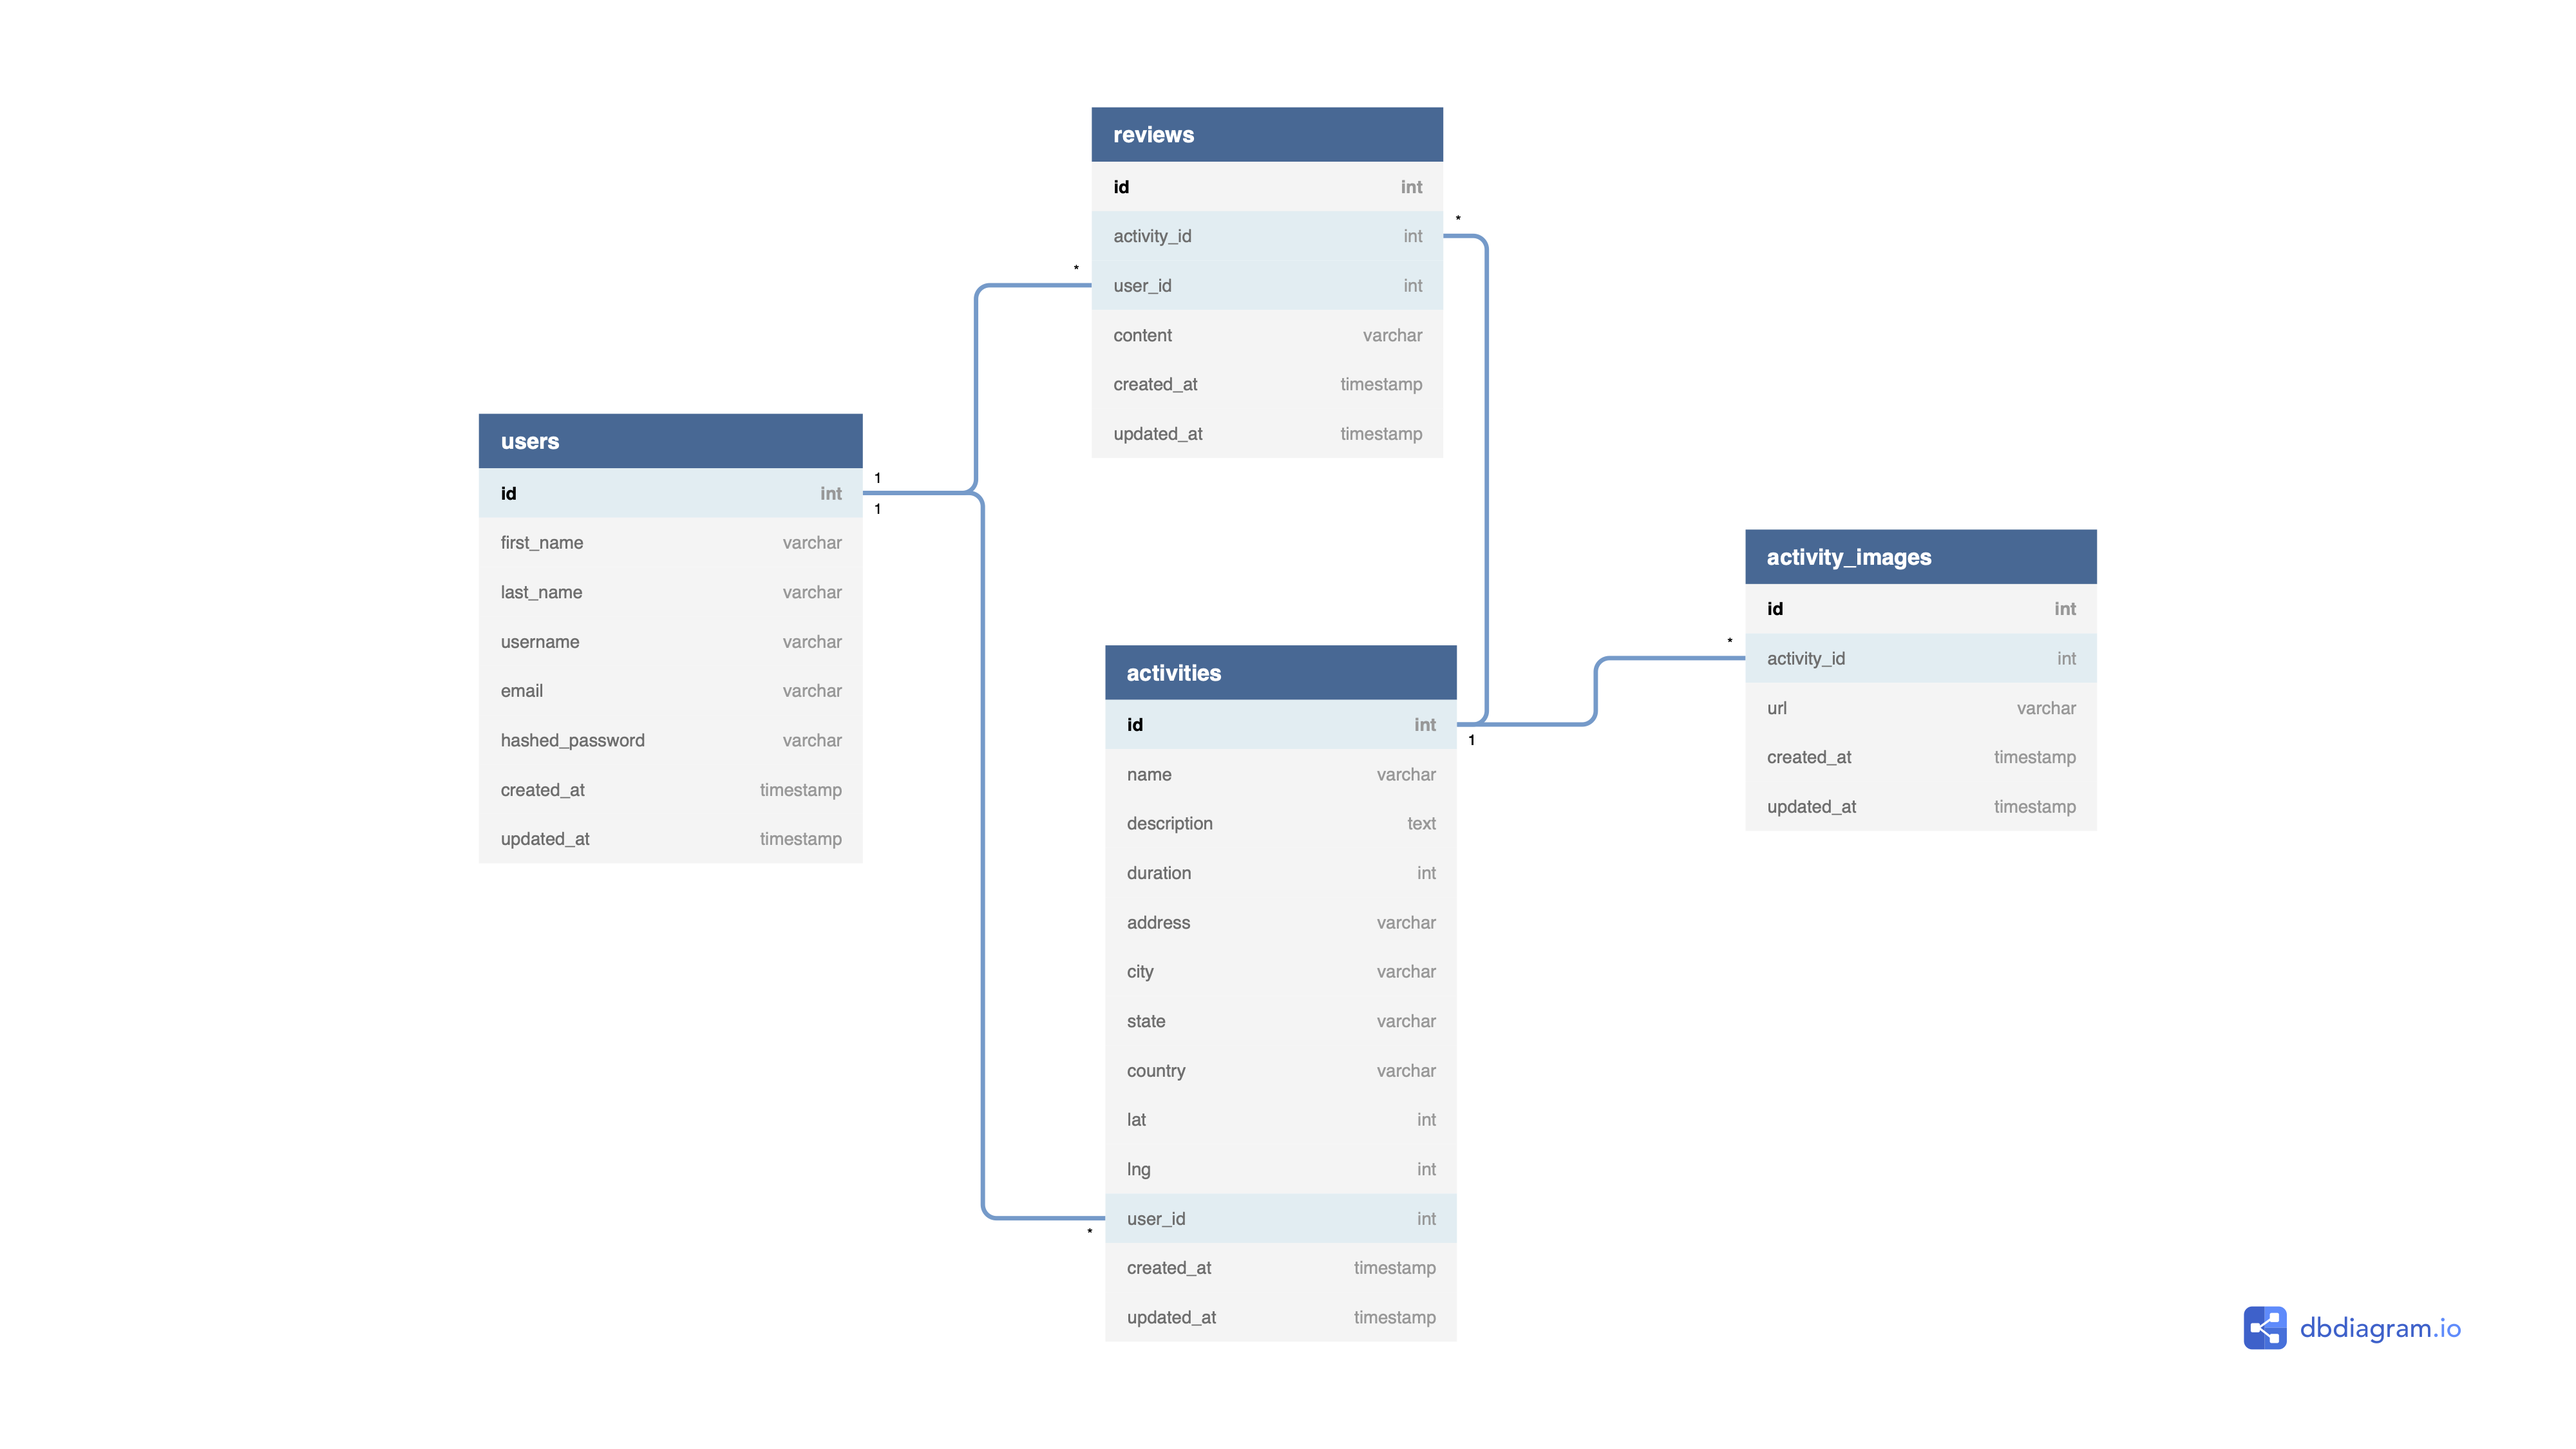
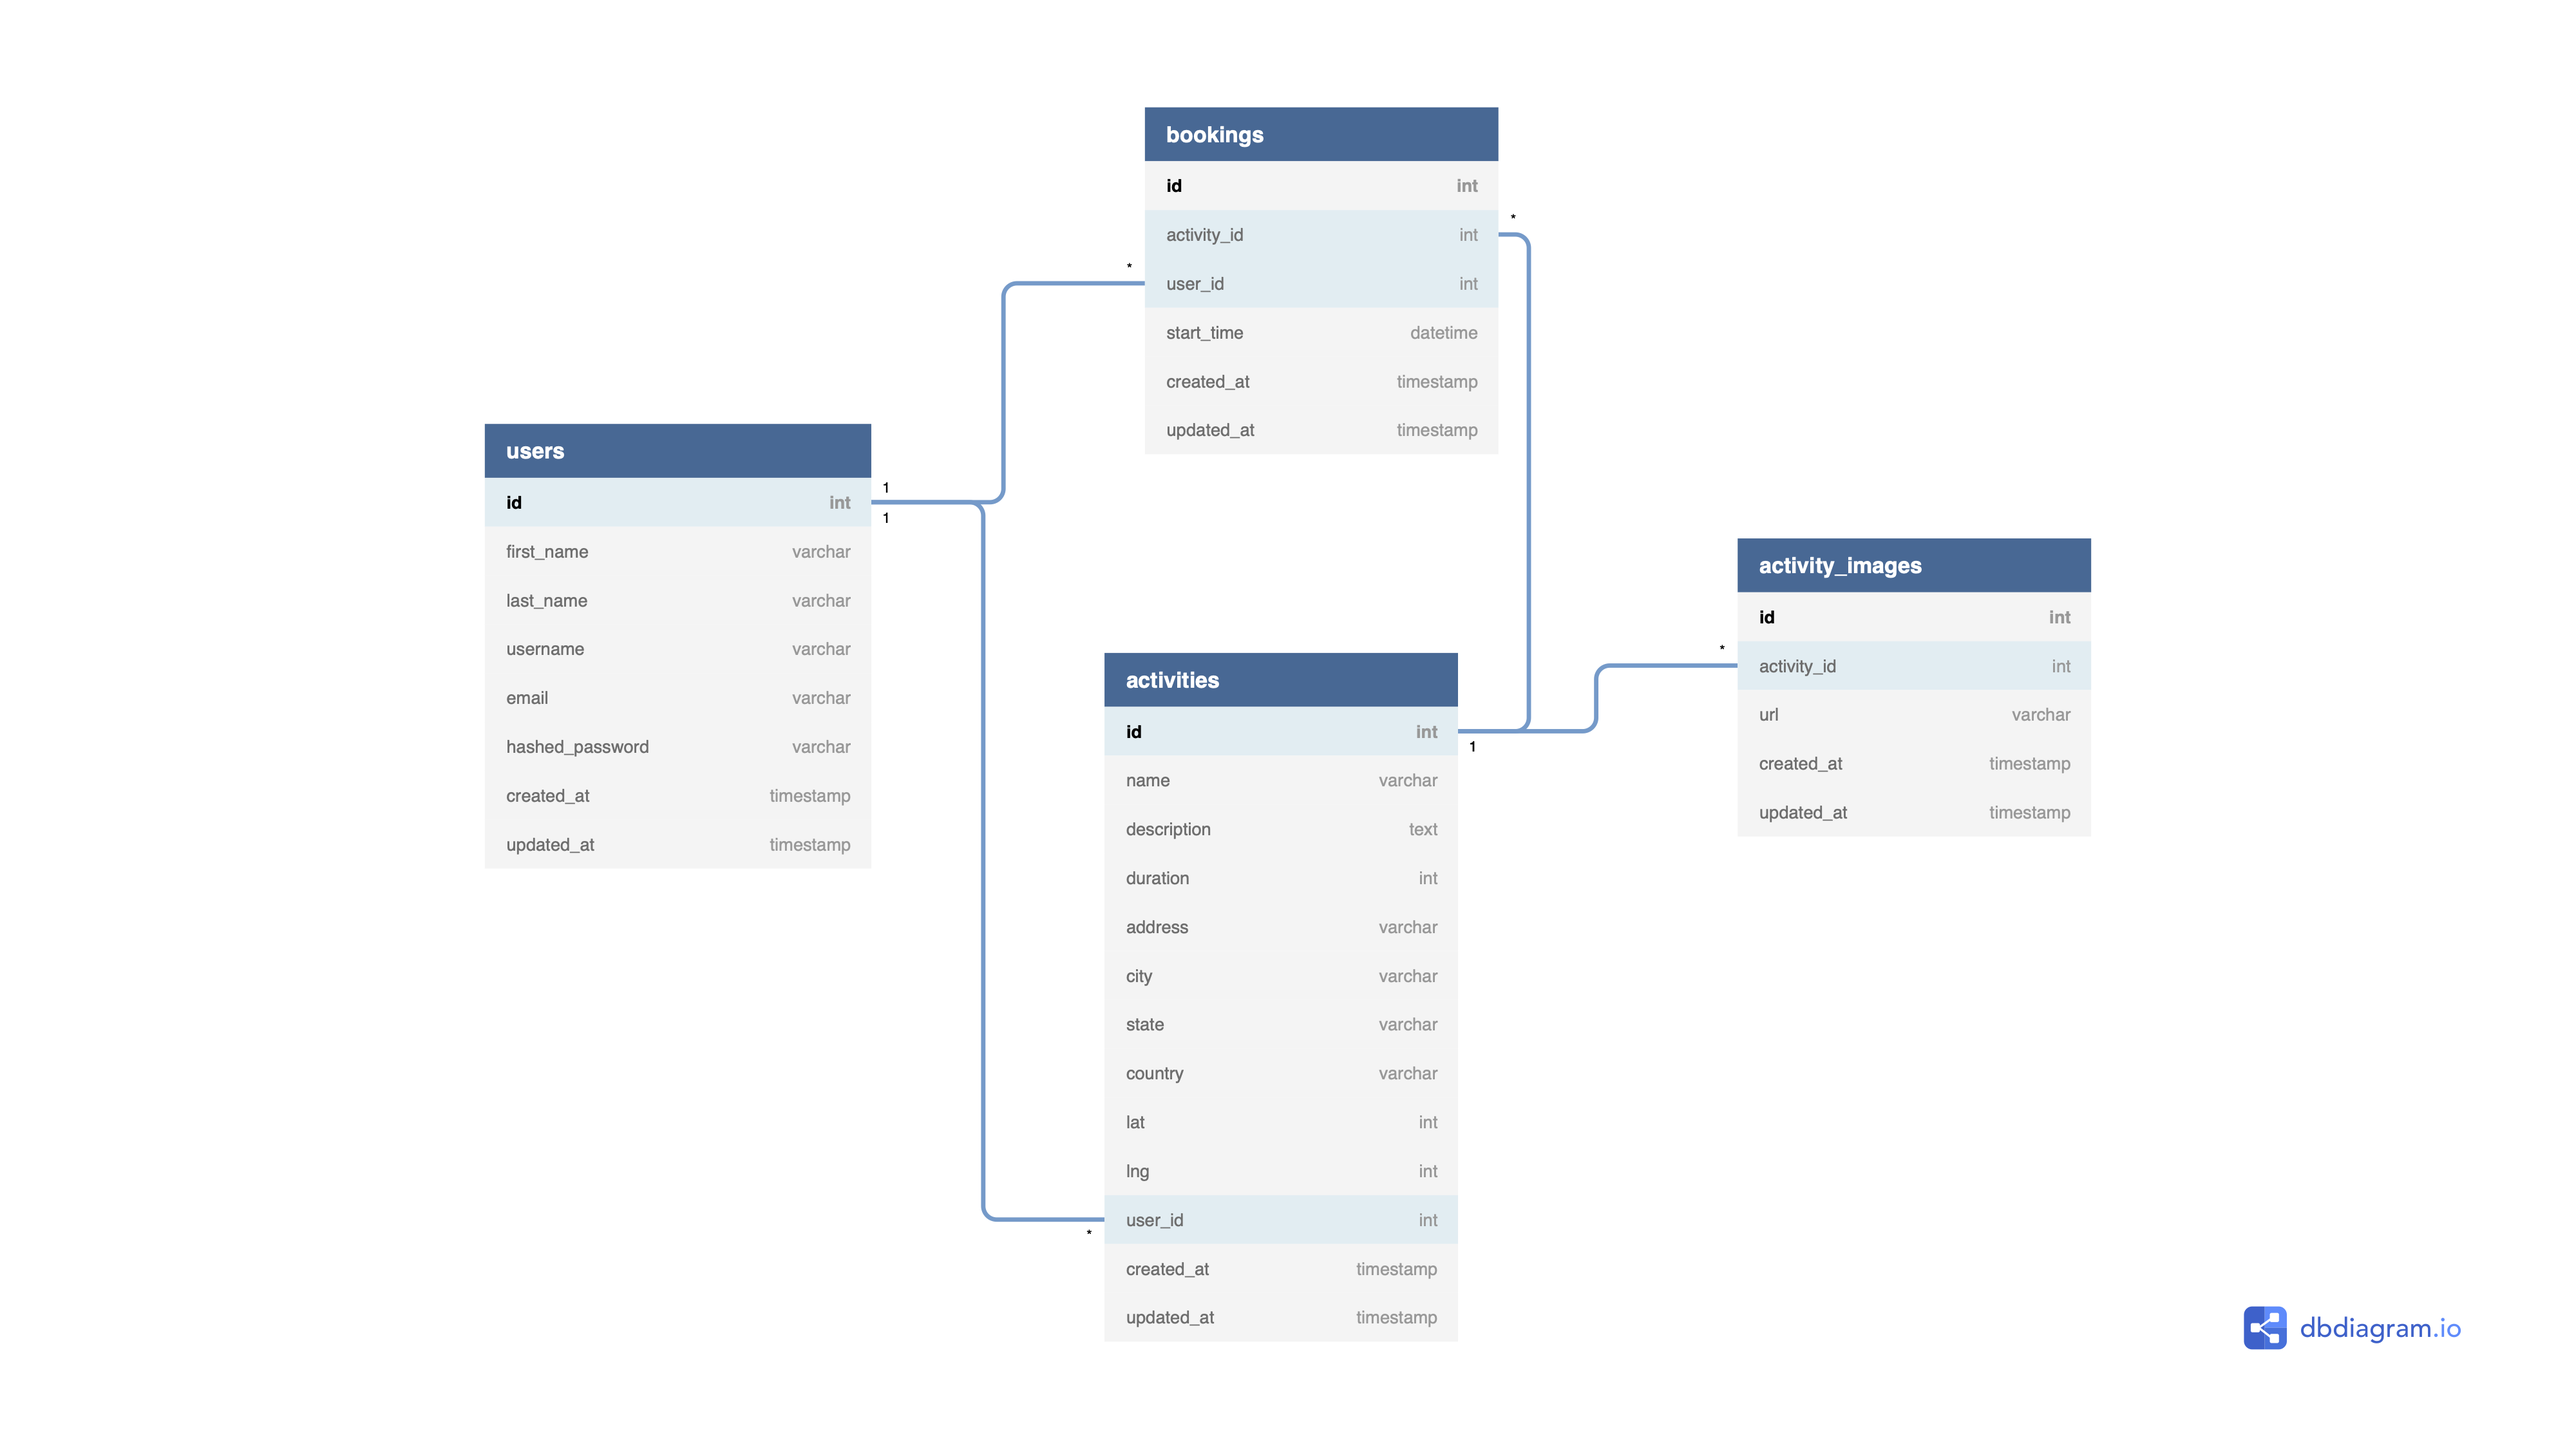
commiting main before switching to activities branch

diff --git a/backend/db/migrations/20211108201449-create-booking 4.js b/backend/db/migrations/20211108201449-create-booking 4.js
@@ -1,0 +1,40 @@
+'use strict';
+module.exports = {
+  up: (queryInterface, Sequelize) => {
+    return queryInterface.createTable('Bookings', {
+      id: {
+        allowNull: false,
+        autoIncrement: true,
+        primaryKey: true,
+        type: Sequelize.INTEGER
+      },
+      activity_id: {
+        type: Sequelize.INTEGER,
+        allowNull: false,
+        references: { model: "Activities" }
+      },
+      user_id: {
+        type: Sequelize.INTEGER,
+        allowNull: false,
+        references: { model: "Users" }
+      },
+      start_time: {
+        type: Sequelize.DATE,
+        allowNull: false
+      },
+      createdAt: {
+        allowNull: false,
+        type: Sequelize.DATE,
+        defaultValue: Sequelize.fn('now')
+      },
+      updatedAt: {
+        allowNull: false,
+        type: Sequelize.DATE,
+        defaultValue: Sequelize.fn('now')
+      }
+    });
+  },
+  down: (queryInterface, Sequelize) => {
+    return queryInterface.dropTable('Bookings');
+  }
+};

diff --git a/backend/db/models/booking 4.js b/backend/db/models/booking 4.js
@@ -1,0 +1,23 @@
+'use strict';
+module.exports = (sequelize, DataTypes) => {
+  const Booking = sequelize.define('Booking', {
+    activity_id: {
+      type: DataTypes.INTEGER,
+      allowNull: false
+    },
+    user_id: {
+      type: DataTypes.INTEGER,
+      allowNull: false
+    },
+    start_time: {
+      type: DataTypes.DATE,
+      allowNull: false
+    }
+  }, {});
+  Booking.associate = function (models) {
+    Booking.belongsTo(models.Activity, { foreignKey: 'activity_id' });
+    Booking.belongsTo(models.User, { foreignKey: 'user_id' });
+
+  };
+  return Booking;
+};
